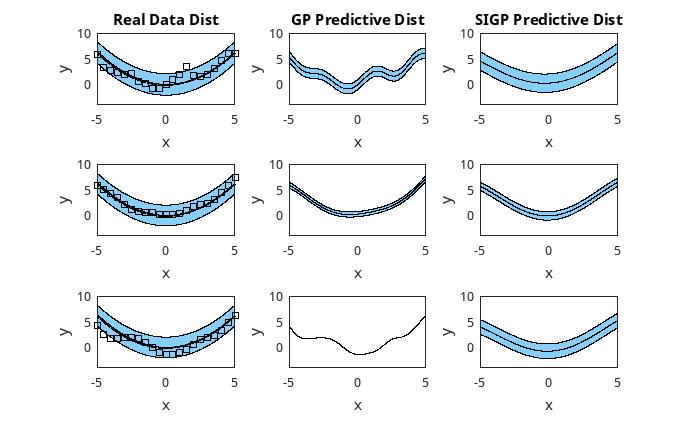
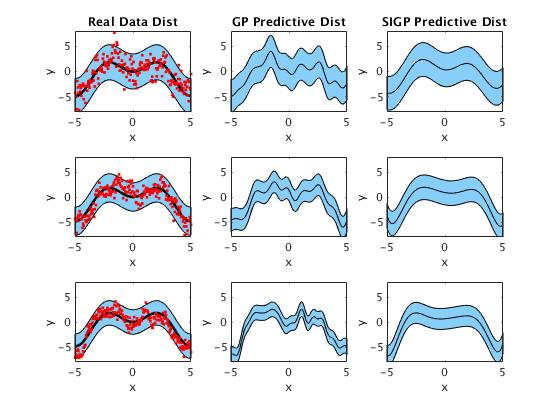
new Example2

diff --git a/Example2.m b/Example2.m
@@ -1,22 +1,22 @@
-xs = (-5:0.01:5)'; ns = size(xs,1); keps = [1e-1;1e-3;1e-6]; % complete data
-xt = (-5:0.5:5)'; nt = size(xt,1); % a subset of data point for training\
+xs = (-5:0.01:5)'; ns = size(xs,1); keps = [2;1;0.5]; % complete data
+xt = (-5:0.05:5)'; nt = size(xt,1); % a subset of data point for training\
 fillcol = [0.530000 0.810000 0.980000];
 
 ne = length(keps);
 
 for i = 1:ne
     % Mean function and covariance function
-    m = inline('0.25*x.^2');
-    K = inline('exp(-0.5*(repmat(p'',size(q))-repmat(q,size(p''))).^2)');
+    m = inline('x.*sin(x)');
+    K = inline('exp(-5*(repmat(p'',size(q))-repmat(q,size(p''))).^2)');
     KM = K(xs,xs)+keps(i)*eye(ns);
     KT = K(xt,xt)+keps(i)*eye(nt);
     ft = m(xt) + chol(KT)'*randn(nt,1); % sampled y
     subplot(ne,3,1+3*(i-1));
     ciplot(m(xs)-2*sqrt(diag((KM))), m(xs)+2*sqrt(diag(KM)),xs,fillcol);
-    ylim([-4,10]);
+    ylim([-8,8]);
     hold on;
     plot(xs,m(xs),'k-','linewidth',2);
-    plot(xt,ft,'ks');
+    plot(xt,ft,'r.');
     if i == 1, title('Real Data Dist'); end
     xlabel('x');
     ylabel('y');
@@ -29,7 +29,7 @@ for i = 1:ne
     hyp = minimize(hyp, @gp, -300, @infExact, meanfunc, covfunc, likfunc, xt, ft);
     [yp,ys2] = gp(hyp, @infExact, meanfunc, covfunc, likfunc, xt, ft, xs);
     ciplot(yp-2*sqrt(ys2),yp+2*sqrt(ys2),xs,fillcol);
-    ylim([-4,10]);
+    ylim([-8,8]);
     hold on;
     plot(xs,yp,'k-');
     if i == 1, title('GP Predictive Dist'); end
@@ -37,10 +37,10 @@ for i = 1:ne
     ylabel('y');
 
     subplot(ne,3,3+3*(i-1));
-    hyp = sigp(xt,ft,1,'kparam',21.885,'efn','ker','lambda',0.045767);
+    hyp = sigp(xt,ft,1,'kparam',4.83,'efn','lin','lambda',0.97);
     [yp,ys2] = hyp.f(xs);
     ciplot(yp-2*sqrt(ys2),yp+2*sqrt(ys2),xs,fillcol);
-    ylim([-4,10]);
+    ylim([-8,8]);
     hold on;
     plot(xs,yp,'k-');
     if i == 1, title('SIGP Predictive Dist'); end

diff --git a/trainKernel.m b/trainKernel.m
@@ -1,40 +1,27 @@
 function res = trainKernel(X,y,m,k)
-% Simple code for choosing the kernel for SIGP using cross-validation.
-% The fitting is based on the Bayesian Optimization toolbox of Matlab.
-% Gradient-based methods are generally better.
-%
-% X, y are the data
-% m is the rank of SIGP
-% k specifies the number of CV partitions
-%
-% Copyright (c) 2018 Zilong Tan (ztan@cs.duke.edu)
 
-band   = optimizableVariable('band', [1,1e3],'Transform','log');
+lambda = optimizableVariable('lambda', [1e-5,1],'Transform','log');
+band   = optimizableVariable('band', [1e-1,1e3],'Transform','log');
 
-minfn = @(z) objfn(k,X,y,m,z.band);
+minfn = @(z) objfn(k,X,y,m,z.lambda,z.band);
 
-res = bayesopt(minfn,band,'IsObjectiveDeterministic',true,...
+res = bayesopt(minfn,[lambda,band],'IsObjectiveDeterministic',true,...
     'AcquisitionFunctionName','expected-improvement-plus', ...
     'ExplorationRatio',0.5,'MaxObjectiveEvaluations',30);
 
 end
 
-function loss = objfn(k,X,y,m,band)
+function loss = objfn(k,X,y,m,lambda,band)
 c = cvpartition(y,'kFold',k);
-fun = @(xT,yT,xt,yt) crossnlp(xT,yT,xt,yt,m,band);
+fun = @(xT,yT,xt,yt) crossnlp(xT,yT,xt,yt,m,lambda,band);
 nlp = crossval(fun,X,y,'partition',c);
 nlp = nlp(:);
-loss = mean(nlp);
+loss = median(nlp);
 end
 
-function nlp = crossnlp(xT,yT,xt,yt,m,band)
-hyp = sigp(xT,yT,m,'kparam',band,'efn','ker','lambda',1e-2);
-
-% Use the L2 loss function (useful for classification)
-nlp = norm(yt-hyp.f(xt))/sqrt(size(yt,1));
-
-%Use the NLPD loss function (useful for regression)
-%[yp,ys2] = hyp.f(xt);
-%nlp = log(2*pi)/2 + sum(log(ys2)/2 + (yp-yt).^2./ys2/2)/size(yp,1);
-
+function nlp = crossnlp(xT,yT,xt,yt,m,lambda,band)
+hyp = sigp(xT,yT,m,'kparam',band,'efn','lin','lambda',lambda);
+%nlp = norm(yt-hyp.f(xt))/sqrt(size(yt,1));
+[yp,ys2] = hyp.f(xt);
+nlp = log(2*pi)/2 + sum(log(ys2)/2 + (yp-yt).^2./ys2/2)/size(yp,1);
 end

diff --git a/singleplot.m b/singleplot.m
@@ -1,0 +1,28 @@
+xs = (-5:0.01:5)'; ns = size(xs,1); % complete data
+xt = (-3:0.5:3)'; nt = size(xt,1); % a subset of data point for training\
+fillcol = [0.530000 0.810000 0.980000];
+
+keps = 1;
+
+ne = length(keps);
+
+% Mean function and covariance function
+m = inline('0.25*x.^2 - 2*sin(x) + 1');
+K = inline('exp(-0.5*(repmat(p'',size(q))-repmat(q,size(p''))).^2)');
+KM = K(xs,xs)+keps*eye(ns);
+KT = K(xt,xt)+keps*eye(nt);
+ft = m(xt) + chol(KT)'*randn(nt,1); % sampled y
+
+hyp = struct();
+meanfunc = {@meanSum,{@meanLinear,@meanConst}}; hyp.mean = log(ones(2,1));
+covfunc = @covSEiso; hyp.cov = log(ones(2,1));
+likfunc = @likGauss; hyp.lik = 0;
+hyp = minimize(hyp, @gp, -300, @infExact, meanfunc, covfunc, likfunc, xt, ft);
+[yp,ys2] = gp(hyp, @infExact, meanfunc, covfunc, likfunc, xt, ft, xs);
+ciplot(yp-2*sqrt(ys2),yp+2*sqrt(ys2),xs,fillcol);
+hold on;
+plot(xs,yp,'k-');
+plot(xt,ft,'ro','MarkerFaceColor','red');
+xlabel('x^{(i)}');
+ylabel('f(\cdot)');
+set(gca,'fontsize',16)
